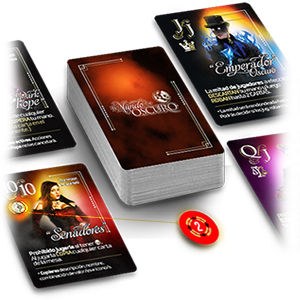
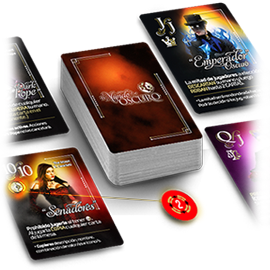
coloque las imagenes de cada personaje

diff --git a/paginas/cartas.html b/paginas/cartas.html
@@ -182,7 +182,7 @@
                             </div>
 
                             <div class="img-pjs animate__animated animate__fadeInLeft">
-                                <img src="../img/gangster.png">
+                                <img src="../img/carta-gangster-j.png">
                             </div>
 
                            
@@ -209,7 +209,7 @@
                         </div>
                         
                         <div class="img-pjs animate__animated animate__fadeInRight">
-                            <img src="../img/sibila.png">
+                            <img src="../img/carta-sibila-q-j.png">
                         </div>
 
                     </div>
@@ -278,11 +278,11 @@
             
                     <img class="linea" src="../img/divsimple-blanco.svg" alt="" >
                     <h6>HISTORIA</h6>
-                    <p>La Alquimista Anne Varriere pertenece a una secta oculta que maneja varios secretos sociales, arcanos y oscuros.</p>
+                    <p>La Alquimista Anne Varriere pertenece a una secta oculta que maneja varios secretos sociales y arcanos. Siempre es vista con una "cruz y un rosa".</p>
                 </div>
 
                 <div class="img-pjs animate__animated animate__fadeInLeft">
-                    <img src="../img/sibila.png">
+                    <img src="../img/carta-bruja-k.png">
                 </div>
 
             </div>      
@@ -306,7 +306,7 @@
                 </div>
                 
                 <div class="img-pjs animate__animated animate__fadeInRight">
-                    <img src="../img/sibila.png">
+                    <img src="../img/carta-pope-a.png">
                 </div>
 
             </div>
@@ -375,7 +375,7 @@
                 </div>
 
                 <div class="img-pjs animate__animated animate__fadeInLeft">
-                    <img src="../img/sibila.png">
+                    <img src="../img/carta-senadores-10-10.png">
                 </div>
 
             </div>
@@ -398,7 +398,7 @@
                 </div>
                 
                 <div class="img-pjs animate__animated animate__fadeInRight">
-                    <img src="../img/sibila.png">
+                    <img src="../img/carta-senadores-10-10b.png">
                 </div>
             </div>    
             
@@ -461,14 +461,14 @@
                 <div class="texto-pjs animate__animated animate__fadeInRight">
                     <h6>Combinación: <b>J/J</b></h6>
                     <h5>Emperador</h5>
-                    <!-- linea que no descarto volver a poner <hr color="#BAA64A"> -->
+                    
                         <img class="linea" src="../img/divsimple-blanco.svg" alt="" >
                     <h6>HISTORIA</h6>
                     <p>Coronado por el Papa J. Leïte dio fin a la guerra Franco-Prusiana con su victoria. Tiene varias reliquias como la “Espada santa del Arcángel Miguel”.</p>
                 </div>
 
                 <div class="img-pjs animate__animated animate__fadeInLeft">
-                    <img src="../img/sibila.png">
+                    <img src="../img/carta-emperador-j-j.png">
                 </div>
 
             </div>
@@ -484,14 +484,14 @@
                 <div class="texto-pjs animate__animated animate__fadeInLeft">
                     <h6>Combinación: <b>Q/Q</b></h6>
                     <h5>Emperatriz</h5>
-                    <!-- linea que no descarto volver a poner <hr color="#BAA64A"> -->
+                  
                         <img class="linea" src="../img/divsimple-blanco.svg" alt="" >
                     <h6>HISTORIA</h6>
                     <p>Emilce de Sicilia. Tiene gran influencia, culta y con un gran poder de oratoria para su época. Su poder radica en conocimientos oscuros de este mundo.</p>
                 </div>
                 
                 <div class="img-pjs animate__animated animate__fadeInRight">
-                    <img src="../img/sibila.png">
+                    <img src="../img/carta-emperatriz-q-q.png">
                 </div>
 
             </div>
@@ -553,14 +553,14 @@
                 <div class="texto-pjs animate__animated animate__fadeInRight">
                     <h6>Combinación: <b>K/K</b></h6>
                     <h5>Caín</h5>
-                    <!-- linea que no descarto volver a poner <hr color="#BAA64A"> -->
+                  
                         <img class="linea" src="../img/divsimple-blanco.svg" alt="" >
                     <h6>HISTORIA</h6>
                     <p>El saber del mundo oscuro está en su ser. Gracias a el, solo unos pocos conocieron la tierra de Nod junto a sus tesoros y secretos.</p>
                 </div>
 
                 <div class="img-pjs animate__animated animate__fadeInLeft">
-                <img src="../img/sibila.png">
+                <img src="../img/carta-cain-k-k.png">
                 </div>
             
             </div>
@@ -577,14 +577,14 @@
                 <div class="texto-pjs animate__animated animate__fadeInLeft">
                     <h6>Combinación: <b>A/A</b></h6>
                     <h5>Lilith</h5>
-                    <!-- linea que no descarto volver a poner <hr color="#BAA64A"> -->
+                    
                         <img class="linea" src="../img/divsimple-blanco.svg" alt="" >
                     <h6>HISTORIA</h6>
-                    <p>Un ser divino de la oscuridad de “El Mundo”. Hay rumores que Aristócratas y Alquimistas logran invocarla por su sabiduría y poder, aunque el coste por su conocimiento es demasiado peligroso.</p>
+                    <p>Un ser divino de la oscuridad. Hay rumores que Aristócratas y Alquimistas logran invocarla por su sabiduría y poder, aunque el coste por su conocimiento es peligroso.</p>
                 </div>
             
                 <div class="img-pjs animate__animated animate__fadeInRight">
-                <img src="../img/sibila.png">
+                <img src="../img/carta-lilith-a-a.png">
                 </div>
             
             </div>
@@ -802,7 +802,7 @@
              <div class="collapse indent" id="collapseExample-j">
                      <div class="cont-pjs cont-pjs-j" style="background-image: url(../img/fondoneutro.jpg);">
                                   <div class="img-pjs animate__animated animate__fadeInLeft">
-                                     <img src="../img/carta-sibila-q-j.png">
+                                     <img src="../img/carta-gangster-j.png">
                                  </div>
 
                             <div class="texto-pjs animate__animated animate__fadeInRight">
@@ -848,7 +848,7 @@
             
 
                     <div class="img-pjs animate__animated animate__fadeInLeft">
-                        <img src="../img/sibila.png">
+                        <img src="../img/carta-bruja-k.png">
                     </div>
                     
                     <div class="texto-pjs animate__animated animate__fadeInRight">
@@ -857,7 +857,7 @@
                 
                         <img class="linea" src="../img/divsimple-blanco.svg" alt="" >
                         <h6>HISTORIA</h6>
-                        <p>La Alquimista Anne Varriere pertenece a una secta oculta que maneja varios secretos sociales, arcanos y oscuros.</p>
+                        <p>La Alquimista Anne Varriere pertenece a una secta oculta que maneja varios secretos sociales y arcanos. Siempre es vista con su Cruz y la Rosa.</p>
                     </div>
         
         
@@ -883,7 +883,7 @@
                     </div>
                     
                     <div class="img-pjs animate__animated animate__fadeInRight">
-                        <img src="../img/sibila.png">
+                        <img src="../img/carta-pope-a.png">
                     </div>
         
         
@@ -900,7 +900,7 @@
             
 
                     <div class="img-pjs animate__animated animate__fadeInLeft">
-                        <img src="../img/sibila.png">
+                        <img src="../img/carta-senadores-10-10.png">
                     </div>
         
                     <div class="texto-pjs animate__animated animate__fadeInRight">
@@ -929,7 +929,7 @@
                     </div>
                     
                     <div class="img-pjs animate__animated animate__fadeInRight">
-                        <img src="../img/sibila.png">
+                        <img src="../img/carta-senadores-10-10b.png">
                     </div>
         
                             
@@ -947,7 +947,7 @@
             
 
                     <div class="img-pjs animate__animated animate__fadeInLeft">
-                        <img src="../img/sibila.png">
+                        <img src="../img/carta-emperador-j-j.png">
                     </div>
         
                     <div class="texto-pjs animate__animated animate__fadeInRight">
@@ -982,7 +982,7 @@
                     </div>
                     
                     <div class="img-pjs animate__animated animate__fadeInRight">
-                        <img src="../img/sibila.png">
+                        <img src="../img/carta-emperatriz-q-q.png">
                     </div>
         
         
@@ -1001,7 +1001,7 @@
 
                     
                     <div class="img-pjs animate__animated animate__fadeInLeft">
-                        <img src="../img/sibila.png">
+                        <img src="../img/carta-cain-k-k.png">
                         </div>
             
                         <div class="texto-pjs animate__animated animate__fadeInRight">
@@ -1031,11 +1031,11 @@
                         <!-- linea que no descarto volver a poner <hr color="#BAA64A"> -->
                             <img class="linea" src="../img/divsimple-blanco.svg" alt="" >
                         <h6>HISTORIA</h6>
-                        <p>Un ser divino de la oscuridad de “El Mundo”. Hay rumores que Aristócratas y Alquimistas logran invocarla por su sabiduría y poder, aunque el coste por su conocimiento es demasiado peligroso.</p>
+                        <p>Un ser divino de la oscuridad. Hay rumores que Aristócratas y Alquimistas logran invocarla por su sabiduría y poder, aunque el coste por su conocimiento es peligroso.</p>
                     </div>
                 
                     <div class="img-pjs animate__animated animate__fadeInRight">
-                    <img src="../img/sibila.png">
+                    <img src="../img/carta-lilith-a-a.png">
                     </div>
         
                 </div>
